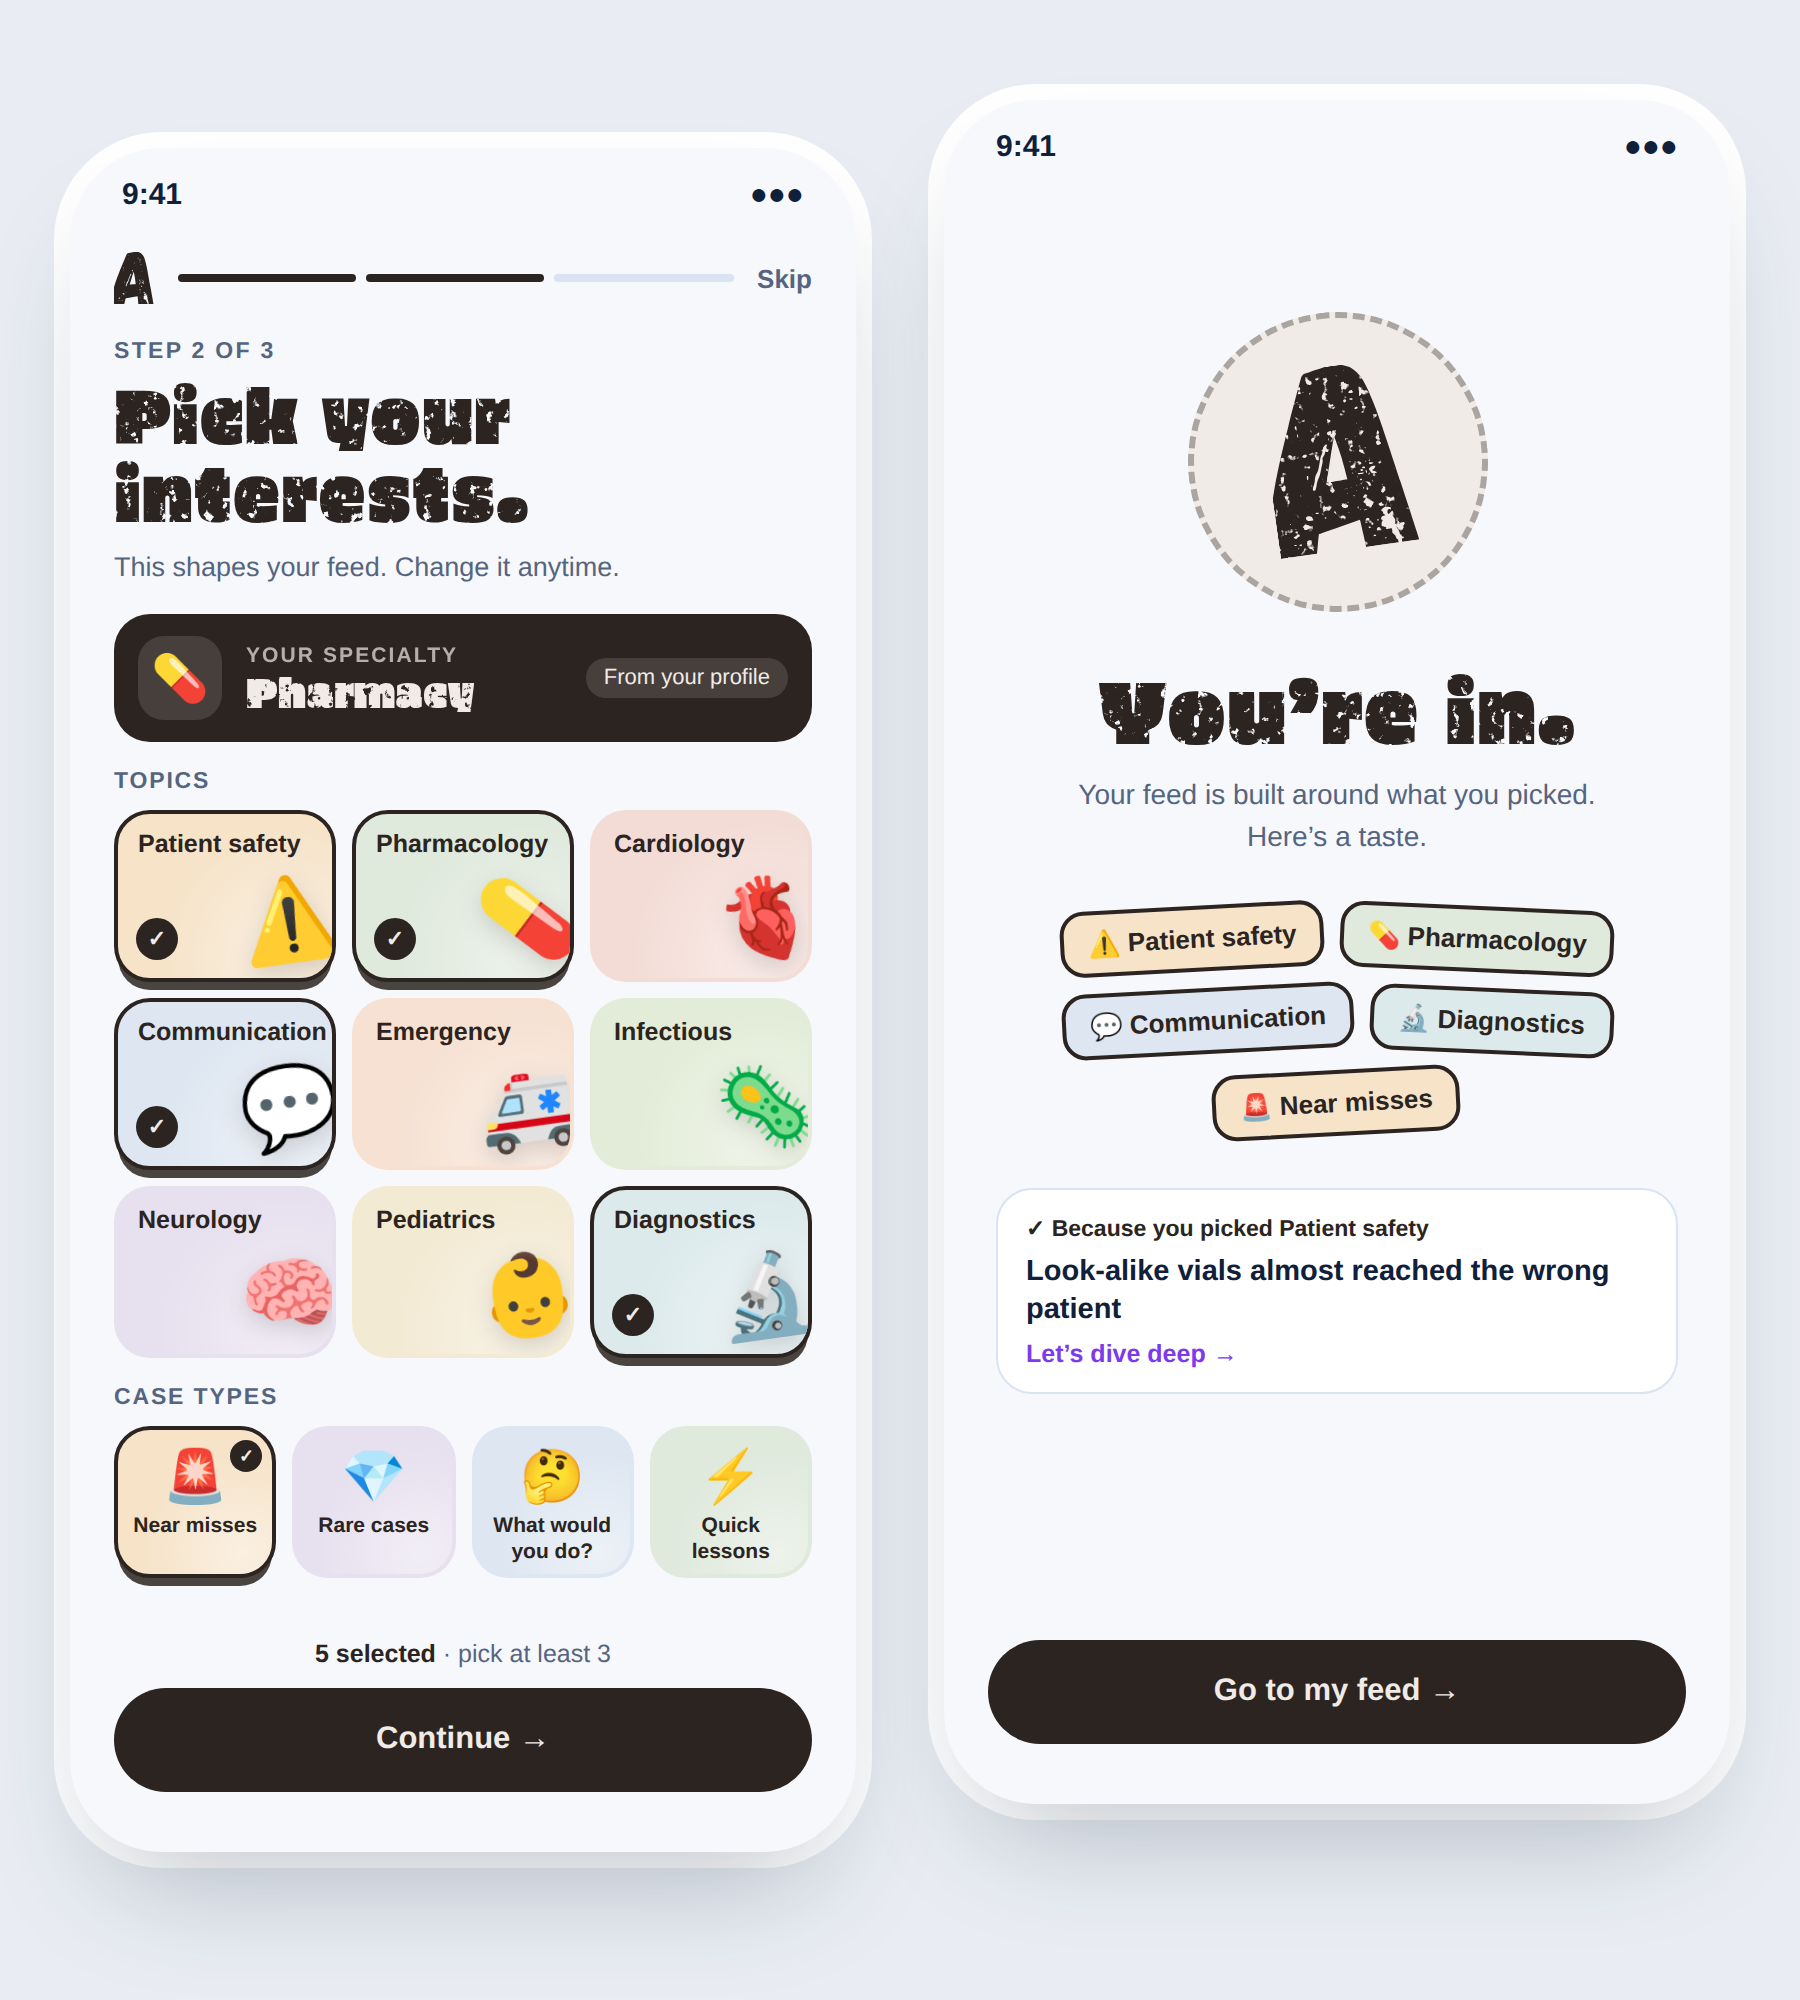
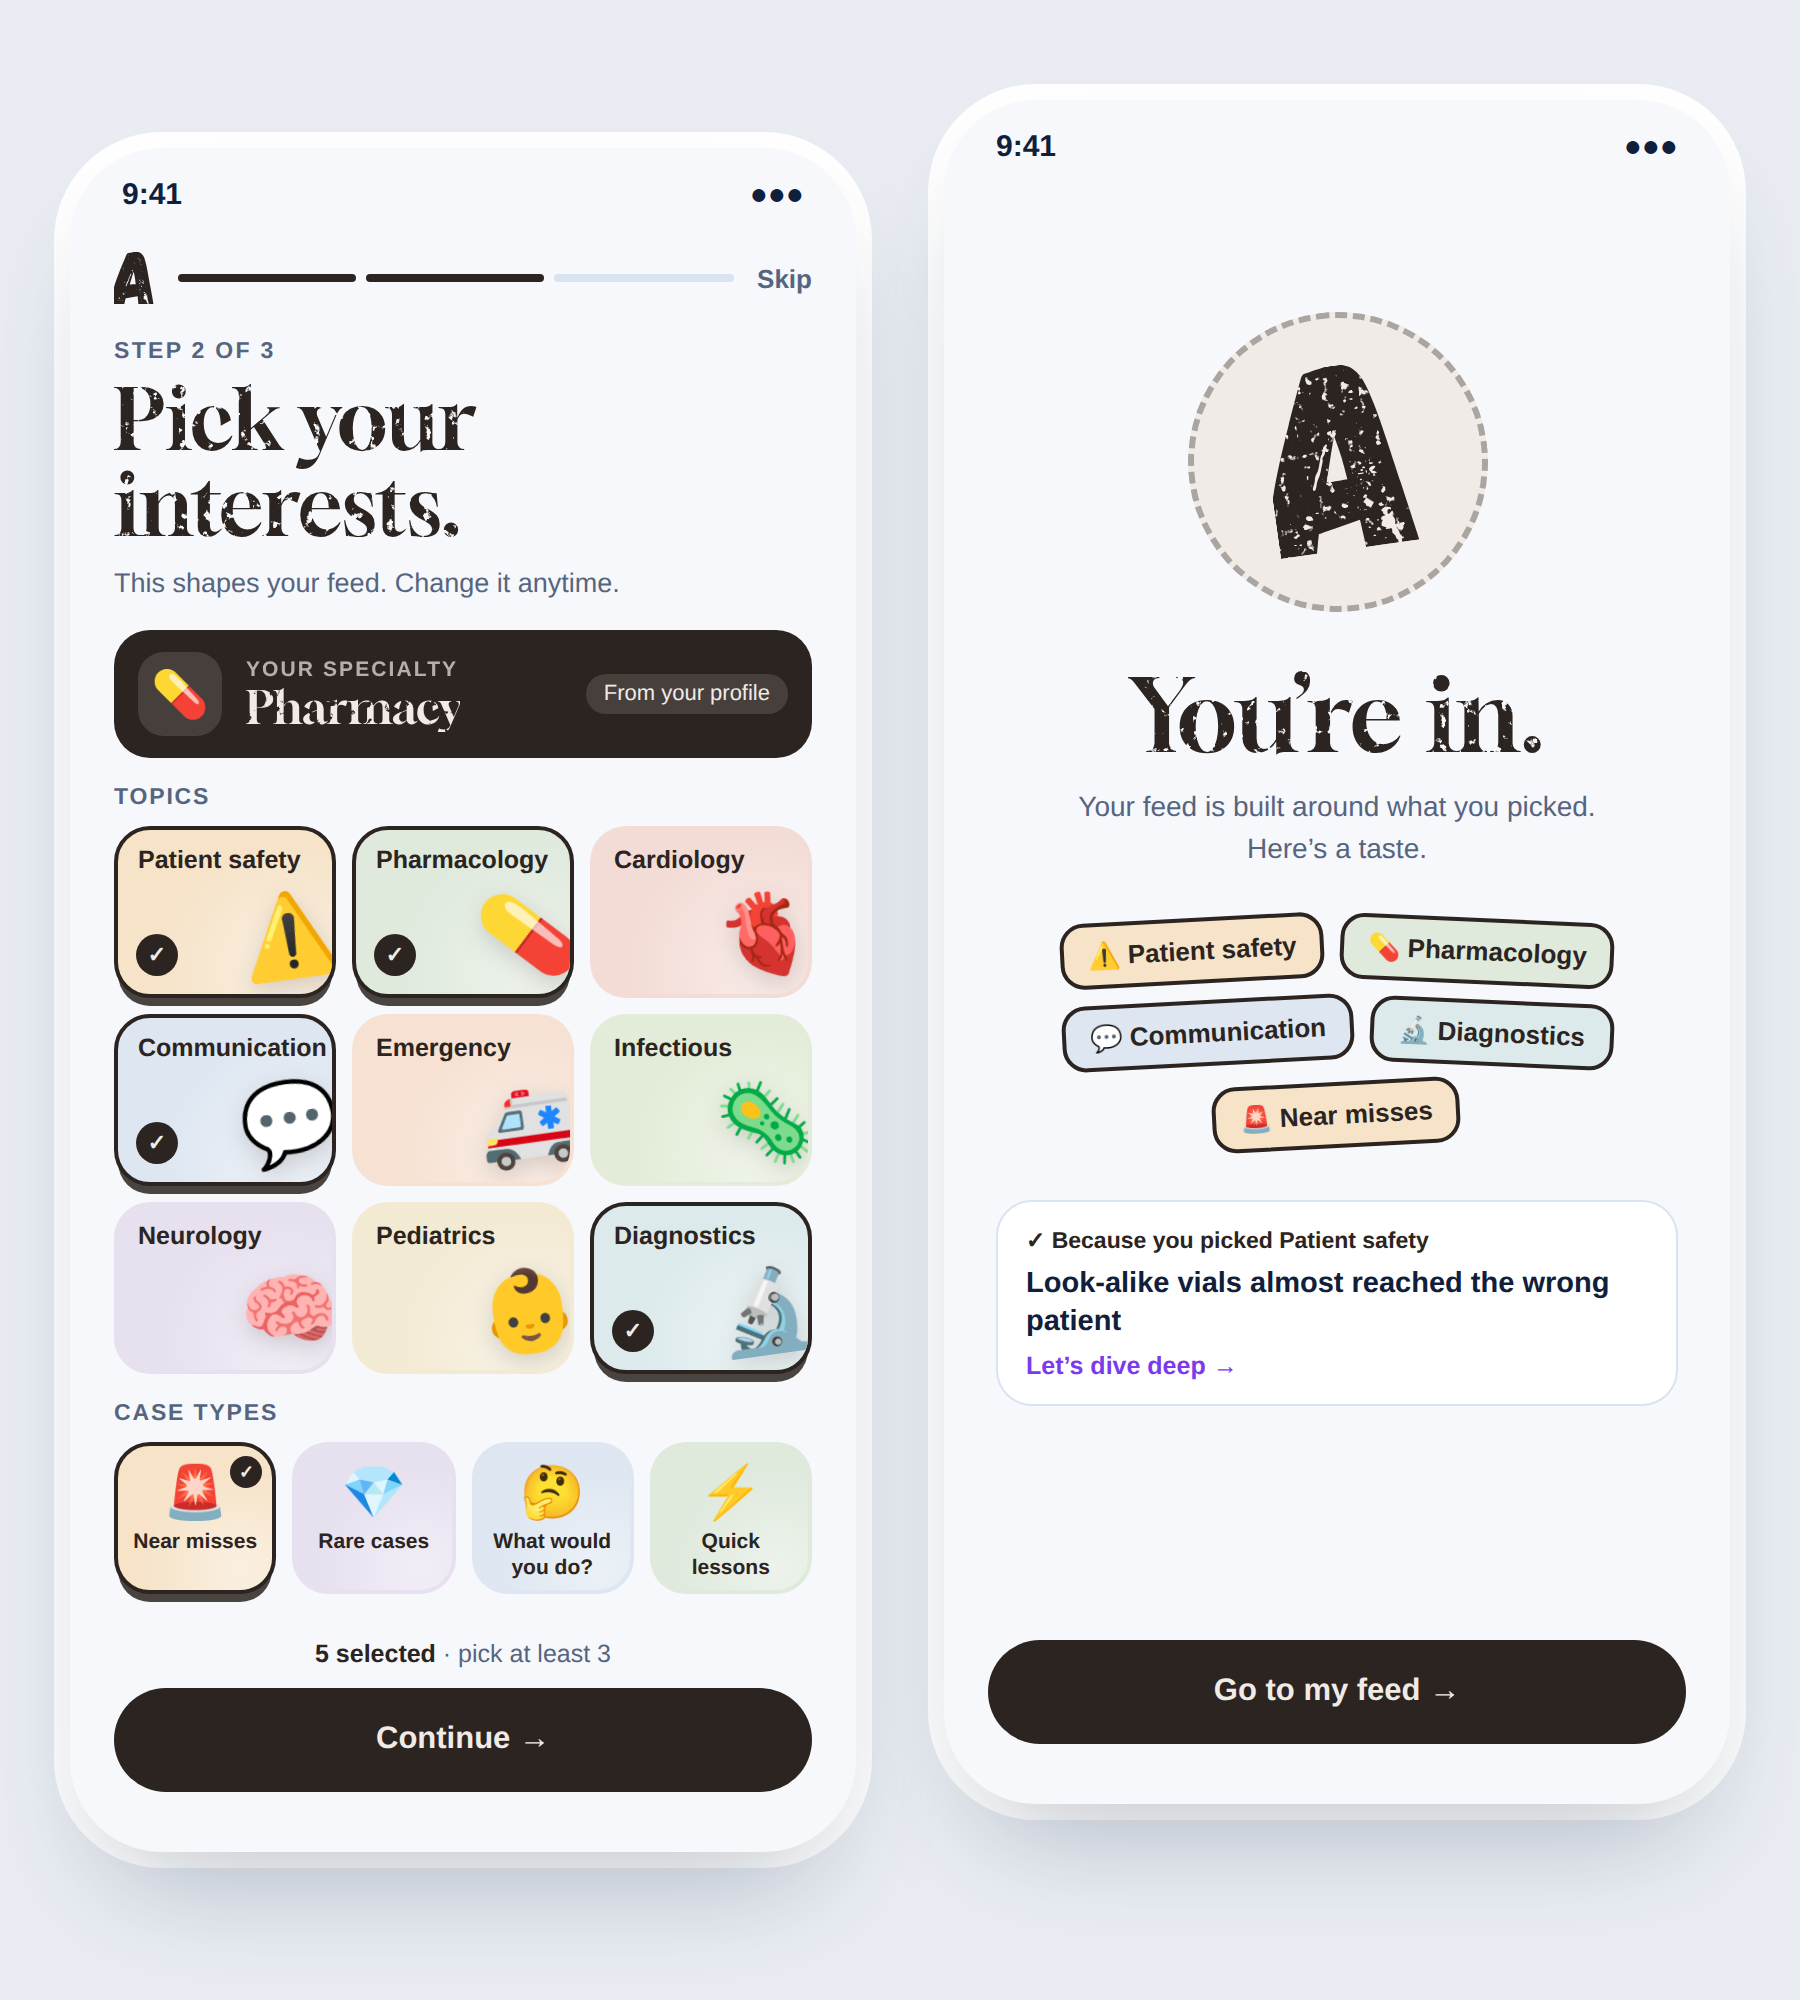
docs(concepts): switch stamped headlines in interest picker to Gloock Regular
Claude-Session: https://claude.ai/code/session_01FPqNxwVsRANxH3viEsx9Ly

Changed region(s): [[0.0622, 0.186, 0.4667, 0.806], [0.56, 0.341, 0.9022, 0.713]]

diff --git a/docs/concepts/1b-interests-stamped.html b/docs/concepts/1b-interests-stamped.html
@@ -1,5 +1,5 @@
 <!doctype html><meta charset=utf-8><style>
-@font-face{font-family:Stamp;src:url("file:///home/user/MEDLNK/.agents/skills/ui-styling/canvas-fonts/EricaOne-Regular.ttf")}
+@font-face{font-family:Stamp;src:url("file:///home/user/MEDLNK/.agents/skills/ui-styling/canvas-fonts/Gloock-Regular.ttf")}
 *{margin:0;padding:0;box-sizing:border-box}
 :root{--bg:#f6f8fc;--surface:#fff;--line:#d9e3f2;--text:#10203a;--muted:#56657f;--ink:#2b2420;--cream:#f0ebe6;--purple:#7c3aed}
 html,body{width:900px;height:1000px;background:#e9edf3;font-family:-apple-system,BlinkMacSystemFont,"Segoe UI",Roboto,Helvetica,Arial,sans-serif;color:var(--text);overflow:hidden}
@@ -13,12 +13,12 @@ html,body{width:900px;height:1000px;background:#e9edf3;font-family:-apple-system
 .steps{flex:1;display:flex;gap:5px}.steps span{flex:1;height:4px;border-radius:4px;background:var(--line)}.steps span.on{background:var(--ink)}
 .skip{font-size:13px;color:var(--muted);font-weight:600}
 .k{font-size:11.5px;font-weight:700;letter-spacing:.1em;text-transform:uppercase;color:var(--muted)}
-h1{font-family:Stamp;font-weight:400;font-size:38px;line-height:1.02;color:var(--ink);margin:6px 0 8px;letter-spacing:.005em}
+h1{font-family:Stamp;font-weight:400;font-size:42px;line-height:1.02;color:var(--ink);margin:6px 0 8px;letter-spacing:.005em}
 .sub{font-size:13.5px;color:var(--muted);line-height:1.45;margin-bottom:14px}
 .spec{position:relative;display:flex;align-items:center;gap:12px;padding:11px 12px;border-radius:18px;background:var(--ink);color:var(--cream)}
 .spec .ic{width:42px;height:42px;border-radius:13px;background:rgba(240,235,230,.14);display:flex;align-items:center;justify-content:center;font-size:23px}
 .spec .a{font-size:10.5px;letter-spacing:.1em;text-transform:uppercase;opacity:.7;font-weight:700}
-.spec .b{font-family:Stamp;font-size:21px;line-height:1.1}
+.spec .b{font-family:Stamp;font-size:23px;line-height:1.1}
 .spec .lock{margin-left:auto;font-size:11px;background:rgba(240,235,230,.14);padding:4px 9px;border-radius:999px}
 h4{font-size:11.5px;font-weight:700;color:var(--muted);text-transform:uppercase;letter-spacing:.08em;margin:14px 0 8px}
 .tiles{display:grid;grid-template-columns:repeat(3,1fr);gap:8px}
@@ -38,7 +38,7 @@ h4{font-size:11.5px;font-weight:700;color:var(--muted);text-transform:uppercase;
 /* done screen */
 .done{position:absolute;inset:46px 0 0;display:flex;flex-direction:column;align-items:center;padding:60px 26px 0;text-align:center}
 .seal{width:150px;height:150px;border-radius:50%;border:3px dashed rgba(43,36,32,.35);display:flex;align-items:center;justify-content:center;transform:rotate(-8deg);margin-bottom:26px;background:var(--cream)}
-.done h1{font-size:44px;margin:0 0 10px}
+.done h1{font-size:50px;margin:0 0 10px}
 .done p{font-size:14px;color:var(--muted);line-height:1.5;max-width:290px}
 .stickers{display:flex;flex-wrap:wrap;justify-content:center;gap:8px;margin-top:24px;max-width:320px}
 .sticker{display:flex;align-items:center;gap:6px;padding:7px 12px;border-radius:12px;font-size:13px;font-weight:700;color:var(--ink);border:2px solid var(--ink);background:var(--t)}

diff --git a/docs/concepts/README.md b/docs/concepts/README.md
@@ -12,8 +12,8 @@ app's old accent. The real theme (src/app/theme.css) is the "stamped document"
 look: ink #2b2420 and cream #f0ebe6. Build with the real tokens, as in
 `1b-interests-stamped.png`.
 
-**Stamped headlines:** EricaOne (OFL, free for commercial use; same font as the
-"It's live." launch post) with a sparse ink-fleck mask matching the logo mark.
+**Stamped headlines:** Gloock Regular (OFL, free for commercial use; chosen
+over EricaOne) with a sparse ink-fleck mask matching the logo mark.
 Big headlines only (about 30px and up). Everything else stays on the system font.
 
 ## 0. Header and nav (`0-header-nav.png`)
